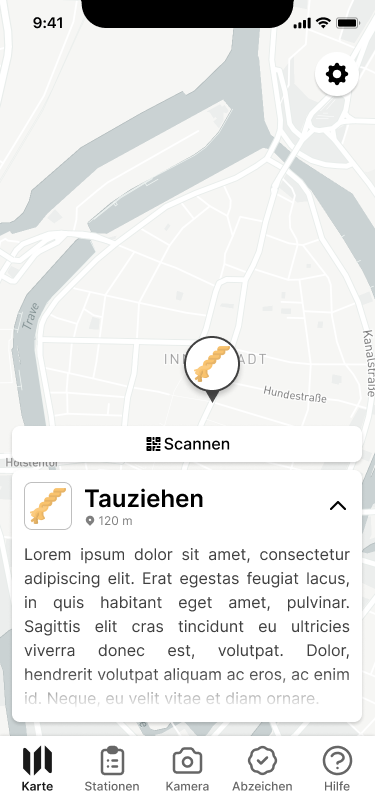
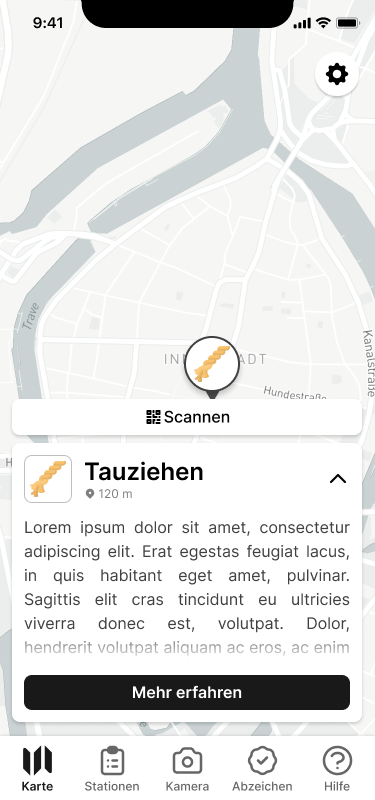
Update images and continue with conception

Changed region(s): [[0.0293, 0.5, 0.968, 0.9062]]

diff --git a/chapter/conception.tex b/chapter/conception.tex
@@ -10,14 +10,15 @@ vorgestellt, welche die zuvor festgelegten Anforderungen (s.
 überarbeiteten Funktionalitäten der EMI-Award-App dargelegt. Anschließend werden
 neue Funktionalitäten vorgestellt.
 
-\subsection{Übernommene Funktionalitäten}
+\subsection{Übernommene \& angepasste Funktionalitäten}
 
-Die Funktionalitäten der EMI-Award-App dienen für diese Arbeit als Grundlage. Um
-die Systemarchitektur später einfacher abbilden zu können, werden die
-Funktionalitäten nach Nutzungsgruppe gruppiert (s. \autoref{table:funk-old}).
-Aufgrund der abweichenden Anforderungen zur EMI-Award-App müssen einige
-Funktionalitäten angepasst werden. Im Folgenden werden die übernommenen und
-überarbeiteten Funktionalitäten für Veranstaltende und Teilnehmende präsentiert.
+Die Funktionalitäten der EMI-Award-App (s. \autoref{table:emi-func}) dienen für
+diese Arbeit als Grundlage. Um die Systemarchitektur später einfacher abbilden
+zu können, werden die Funktionalitäten nach Nutzungsgruppe gruppiert (s.
+\autoref{table:funk-old}). Aufgrund der abweichenden Anforderungen zur
+EMI-Award-App müssen einige Funktionalitäten angepasst werden. Im Folgenden
+werden die übernommenen und überarbeiteten Funktionalitäten für Veranstaltende
+und Teilnehmende präsentiert.
 
 \begin{table}[htpb]
     \def\arraystretch{1.25}
@@ -49,10 +50,12 @@ Kontext der EMI-Award-App sehr spezifisch ist, waren die Anpassungsmöglichkeite
 auf das nötige beschränkt. Konkret wurden einige Daten in der App fest
 eingebaut. Dies umschließt die Icons von Stationen und Abzeichen, die
 Abschlussbedingung der einzelnen Abzeichen, sowie die Bilder der Einführung. All
-diese Einstellungen sind nun frei anpassbar.\\
-Zudem werden zwei neue Abschlussbedingungen eingeführt: eine Textabgabe und
-eine Bildabgabe, welche von Veranstaltenden manuell akzeptiert oder abgelehnt
-werden können.
+diese Einstellungen sind nun frei anpassbar. Zudem werden mediale Inhalte für
+Stationen nun nicht mehr benötigt, da diese nicht für jede Veranstaltung von
+Bedeutung sind. Icons hingegen müssen für Stationen angegeben werden.\\
+Zusätzlich werden zudem zwei neue Abschlussbedingungen eingeführt: eine
+Textabgabe und eine Bildabgabe, welche von Veranstaltenden manuell akzeptiert
+oder abgelehnt werden können.
 
 Die Hilfseinträge (Ft-V-3) werden weitergehend überarbeitet, um eine größere
 Anzahl an Einträgen übersichtlich anzuzeigen. Hierzu werden die Einträge
@@ -166,12 +169,20 @@ Insgesamt gibt es somit nun folgende Abschlussbedingungen: \textit{Anzahl
 
 \section{Interface-Design}
 
-In diesem Abschnitt wird die Benutzeroberfläche aus Sicht der Teilnehmenden und
-Veranstaltenden vorgestellt. Die Grundlage der Benutzeroberfläche bildet der
-Entwurf der EMI-Award-App, welcher im Rahmen des dazugehörigen Bachelorprojekts
-bereits evaluiert wurde. Es wurden einige Anpassungen vorgenommen, um die
-Usability Heuristiken nach \textcite{Nielsen1994} zu beachten. Diese
-werden im Verlauf mit ihren IDs referenziert (s. \autoref{table:nielsen}).
+In diesem Abschnitt wird die Benutzeroberfläche aus Sicht der Veranstaltenden
+und Teilnehmenden vorgestellt.
+
+\subsection{Veranstaltende}
+
+
+
+\subsection{Teilnehmende}
+
+Die Grundlage der Benutzeroberfläche der Teilnehmenden bildet der Entwurf der
+EMI-Award-App, welcher im Rahmen des dazugehörigen Bachelorprojekts bereits
+evaluiert wurde. Es wurden einige Anpassungen vorgenommen, um die Usability
+Heuristiken nach \textcite{Nielsen1994} zu beachten (\anfref{Q40}). Diese werden im Verlauf mit
+ihren IDs referenziert (s. \autoref{table:nielsen}).
 
 \begin{table}[htpb]
     \def\arraystretch{1.25}
@@ -180,25 +191,105 @@ werden im Verlauf mit ihren IDs referenziert (s. \autoref{table:nielsen}).
     \label{table:nielsen}
     \begin{tabular}{ll}
         \uzlhline%
-        \uzlemph{ID} & \uzlemph{Heuristik}                                           \\
+        \uzlemph{ID} & \uzlemph{Heuristik}                         \\
         \uzlhline%
-        H1           & Sichtbarkeit des Systemstatus                                 \\
-        H2           & Übereinstimmung von System und Wirklichkeit                   \\
-        H3           & Nutzerkontrolle und Freiheit                                  \\
-        H4           & Beständigkeit und Standards                                   \\
-        H5           & Fehlervermeidung                                              \\
-        H6           & Wiedererkennung statt Erinnerung                              \\
-        H7           & Flexibilität und Effizienz                                    \\
-        H8           & Ästhetisches und minimalistisches Design                      \\
-        H9           & Hilfestellung beim Erkennen, Bewerten und Beheben von Fehlern \\
-        H10          & Hilfe und Dokumentation                                       \\
+        H1           & Sichtbarkeit des Systemstatus               \\
+        H2           & Übereinstimmung von System und Wirklichkeit \\
+        H4           & Beständigkeit und Standards                 \\
+        H6           & Wiedererkennung statt Erinnerung            \\
+        H7           & Flexibilität und Effizienz                  \\
+        H8           & Ästhetisches und minimalistisches Design    \\
+        H10          & Hilfe und Dokumentation                     \\
         \uzlhline
     \end{tabular}
 \end{table}
 
-Aufgrund des zugrunde gelegten Entwurfs der EMI-Award-App wurde direkt mit einem
+Da auf dem Entwurf der EMI-Award-App aufgebaut wird, wurde direkt mit einem
 High-Fidelity Prototypen begonnen. Dieser wurde mit dem Interface-Design-Tool
-Figma erstellt. Im Folgenden wird der fertige Entwurf präsentiert.
+Figma erstellt. Das Design der EMI-Award-App ist spezifisch auf die dazugehörige
+Veranstaltung abgestimmt. Um eine möglichst neutrale und anpassbare Darstellung
+zu ermöglichen (\anfref{F130}), wurde das Design dies hingehend angepasst.
+Konkret wurden bewusst auf Farben verzichtet und EMI-Award spezifische Grafiken
+entfernt oder durch Platzhalter ersetzt.
+
+\begin{figure}[htpb]
+    \begin{minipage}{.33\textwidth}
+        \centering
+        \includegraphics[width=.9\linewidth]{prototype/Karte.png}
+    \end{minipage}%
+    \begin{minipage}{.33\textwidth}
+        \centering
+        \includegraphics[width=.9\linewidth]{prototype/Karte-1.png}
+    \end{minipage}
+    \begin{minipage}{.33\textwidth}
+        \centering
+        \includegraphics[width=.9\linewidth]{prototype/Karte-2.png}
+    \end{minipage}
+    \caption{Interaktive Karte mit Projektstandorten: nichts ausgewählt (links), ausgewählt (mittig), ausgewählt und aufgeklappt (rechts)}
+    \label{fig:prototype-map}
+\end{figure}
+
+Aufgrund des variablen räumlichen Kontextes ist eine Verteilung der Stationen
+über Kilometer große Räume möglich. Hierdurch ist die Distanz zu den
+verschiedenen Stationen eine durchaus wichtige Information für Teilnehmende
+(H2). Als Konsequenz wird die Distanz in verschiedenen relevanten Stellen des
+User-Interfaces angezeigt. Eine dieser Stellen ist die interaktive Karte der
+Stationen, insbesondere das Pop-up. Jenes wurde um die Distanz zur zugehörigen
+Station ergänzt. Des Weiteren wird die Kurzbeschreibung standardmäßig
+eingeklappt (s. \autoref{fig:prototype-map}, mittig), um Teilnehmende nicht mit
+zu vielen Informationen zu konfrontieren (H7, H8). Zudem wird das Icon der
+Station nun ebenfalls in das Pop-up eingebunden, da im Gegensatz zu den
+generischen Planeten der EMI-Award-App, die Icons der Stationen von
+Veranstaltenden selbst bestimmt werden. Somit werden die Icons der Stationen mit
+diesen assoziiert, was die Wiedererkennung im Rest der Benutzeroberfläche
+erleichtert (H6). Eine weitere Ergänzung stellt ein „Jetzt Scannen“-Button dar,
+welcher direkt zur Kamera navigiert, um die Navigation zu dieser zu erleichtern
+(H7) und gleichzeitig als \textit{In-Context}-Hilfe dient (H6). Um den Fokus auf
+unbesuchte Stationen zu lenken, werden besuchte Stationen zudem mit einem Haken
+als solche markiert und kleiner dargestellt (s. \autoref{fig:prototype-map},
+links). Zusätzlich können besuchte Stationen auch komplett ausgeblendet werden.
+Beide Maßnahmen zielen darauf ab, irrelevante Informationen auf der
+Benutzeroberfläche zu vermindern oder zu vermeiden (H8). Hingegen wird die aktiv
+ausgewählte Station durch eine Umrandung noch zusätzlich hervorgehoben.
+Insgesamt wird die Struktur und Position des Pop-up angepasst, um sie populären
+Apps mit ähnlichen Funktionen anzugleichen, da die Umgangsweise mit diesen
+bereits bekannt ist und somit übertragen werden kann (H4).
+
+\begin{figure}[htpb]
+    \centering
+    \includegraphics[width=.3\linewidth]{prototype/Stationen.png}
+    \caption{Stationsauflistung}
+    \label{fig:prototype-stations-list}
+\end{figure}
+
+Auch in der Stationsauflistung stellt die Distanz eine wichtige Information dar.
+Somit wird für jeden Eintrag die Distanz angezeigt, wobei die Einträge
+zusätzlich nach Distanz aufsteigend sortiert werden. Außerdem werden Stationen
+nach „offen“ und „besucht“ gefiltert, wobei standardmäßig die Kategorie „offen“
+angezeigt wird. Sowohl die Sortierung als auch die Filterung dienen dazu,
+Teilnehmenden zuerst die relevantesten Informationen zu präsentieren (H8).
+Konkret sind hiermit die nächstgelegenen unbesuchten Stationen gemeint. Des
+Weiteren werden für die Einträge die jeweiligen Stationsicons verwendet. Diese
+ersetzten die Bildvorschau der EMI-Award-App, da mediale Inhalte nicht mehr
+zwingend benötigt werden, Icons hingegen schon.
+
+\begin{figure}[htpb]
+    \begin{minipage}{.5\textwidth}
+        \centering
+        \includegraphics[width=.6\linewidth]{prototype/Stationen-1.png}
+    \end{minipage}%
+    \begin{minipage}{.5\textwidth}
+        \centering
+        \includegraphics[width=.6\linewidth]{prototype/Stationen-2.png}
+    \end{minipage}
+    \caption{Stationsansicht: mit (links) und ohne (rechts) mediale Inhalte}
+    \label{fig:prototype-stations-one}
+\end{figure}
+
+Die Stationsansicht ist ebenfalls von der Einführung der Distanz betroffen und
+zeigt diese ähnlich zur Stationsauflistung an.
+
+
 
 % Design System
 % - Schriftgrößen
@@ -212,15 +303,6 @@ Figma erstellt. Im Folgenden wird der fertige Entwurf präsentiert.
 % und 150 ppi
 %
 % Iconsatz: Heroicons
-
-
-
-Aufgrund des variablen räumlichen Kontextes ist eine Verteilung der Stationen
-über Kilometer große Räume möglich. Hierdurch ist die Distanz zu den
-verschiedenen Stationen eine durchaus wichtige Information für Teilnehmende
-(H1). Als Konsequenz wird die Distanz in verschiedenen relevanten Stellen des
-User-Interfaces angezeigt, welche in den folgenden Absätzen näher erläutert
-werden.
 
 % - Icons im Popup, da klein und durch Veranstalter bestimmbar statt generischer
 %   Planet
